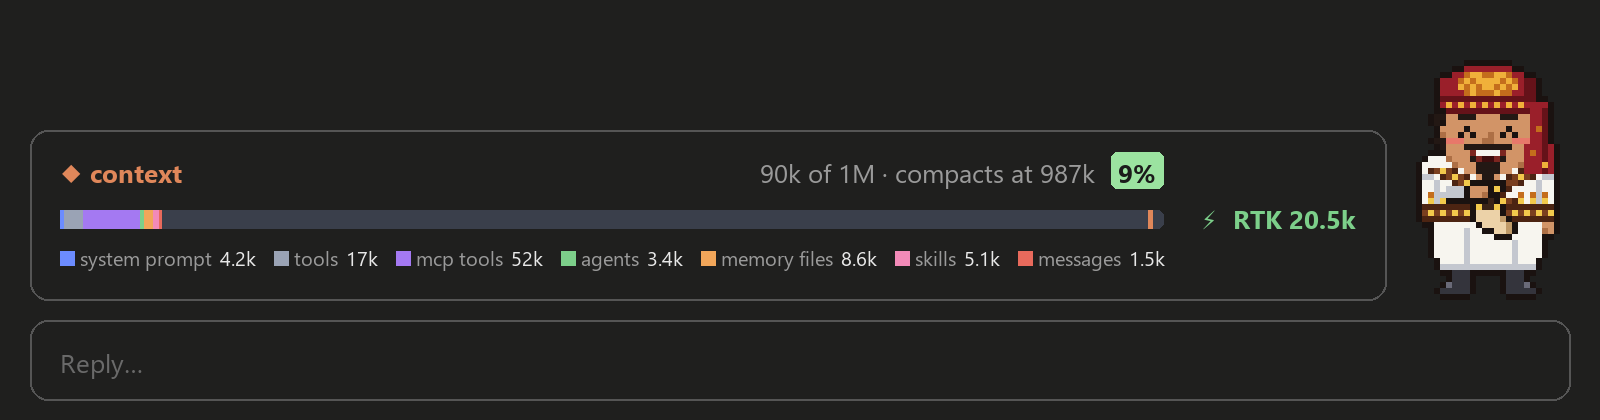
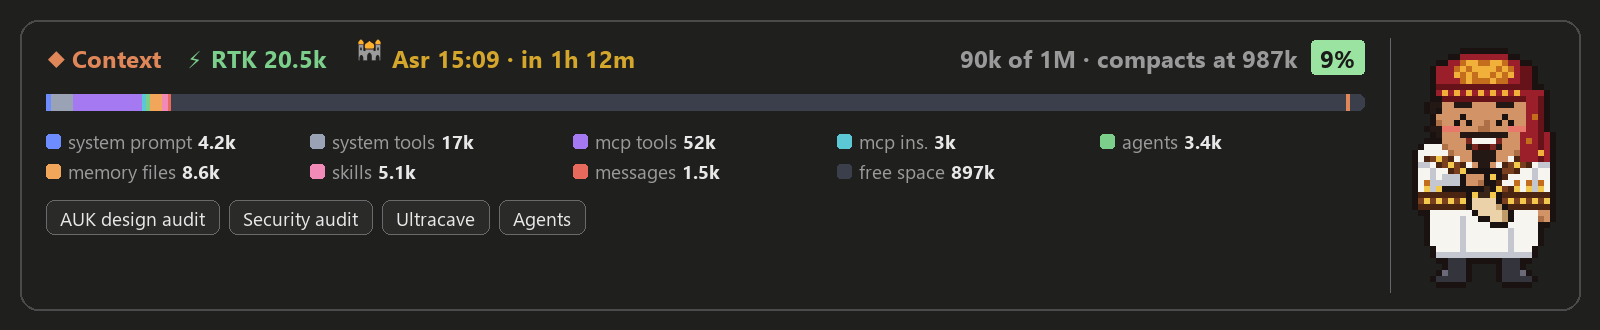
v0.5.0: README and previews for the new band
README covers the one-card layout, the four buttons, prayer times and the
Salah reminder (with where the times come from and the TZ override), and
the terminal fallbacks. New band.png and salah-reminder.png previews.

diff --git a/README.md b/README.md
@@ -1,8 +1,8 @@
 # Context Mod Companion
 
-A Claude Code mod that puts a context-window band above the prompt box. It shows your [RTK](https://github.com/rtk-ai/rtk) token savings, and a pixel Yemeni companion stands beside it. His mood follows how much context you have left. Its one-click setup also installs RTK and [Matt Pocock's skills](https://github.com/mattpocock/skills).
+A Claude Code mod that puts one card above the prompt box: your context window by category, your [RTK](https://github.com/rtk-ai/rtk) token savings, the next Islamic prayer time, and four one-click actions. A pixel Yemeni companion stands in the card. His mood follows how much context you have left, and he calls "Salah" when a prayer is due. Its one-click setup also installs RTK and [Matt Pocock's skills](https://github.com/mattpocock/skills).
 
-![The band above the prompt, with the companion standing to its right](assets/band.png)
+![The band: Context, RTK and the next prayer in the header, the usage bar, a five-column legend, four buttons, and the companion behind a divider](assets/band.png)
 
 ## Install
 
@@ -59,13 +59,33 @@ After setup, run `/mattpocock-skills:setup-matt-pocock-skills` in a project to s
 
 ## What you get
 
+The band pops up after the first prompt you send in a session.
+
 | Part | What it shows |
 | --- | --- |
-| Context | Tokens used out of your window, the auto-compact point, a % used badge, a bar split by category (system prompt, tools, MCP tools, agents, memory files, skills, messages) and a legend with token counts |
-| ⚡ RTK | Total tokens RTK has saved, from `rtk gain` |
-| Companion | A chibi Yemeni man in traditional dress (turban, khanjar, bandoliers) with no background. Click him and he raises his hand and says "Salam" |
+| Header | ◆ Context · ⚡ RTK tokens saved (from `rtk gain`) · 🕌 the next prayer with a countdown. On the right: tokens used of your window, the auto-compact point and a % used badge |
+| Usage bar | Your context window split by category, with a marker where auto-compact kicks in |
+| Legend | Five to a row: system prompt, system tools, mcp tools, mcp ins. (MCP server instructions), agents, memory files, skills, messages, free space, each with its token count |
+| Buttons | See [Buttons](#buttons) |
+| Companion | A chibi Yemeni man in traditional dress (turban, khanjar, bandoliers), behind a thin divider on the right. Click him and he raises his hand and says "Salam" |
 
-The band pops up after the first prompt you send in a session.
+### Buttons
+
+| Button | What it does | Shown when |
+| --- | --- | --- |
+| AUK design audit | Asks Claude to run the `auk-design-auditor` subagent on a document; Claude asks you which file | Always (the subagent lives in the AUK Design System folder, so start the session there) |
+| Security audit | Asks Claude to run the `security-audit` skill ([cloudflare/security-audit-skill](https://github.com/cloudflare/security-audit-skill)) on the project. Claude recommends a targeted or full audit with its rough cost and waits for your yes | Always |
+| Ultracave | Runs the caveman plugin's `/ultracave` | caveman is installed |
+| Agents | Runs `/agents-info`, which opens savvy-flow's live agents panel or closes it if it's open | savvy-flow is installed |
+
+### Prayer time and the Salah reminder
+
+![The Salah reminder: a gold chip in the header and the companion raising both hands under a Salah bubble with a gold glow](assets/salah-reminder.png)
+
+- **Next prayer:** the header shows the next of Fajr, Dhuhr, Asr, Maghrib and Isha in gold, with a countdown that updates every minute.
+- **Reminder:** from 2 minutes before a prayer until 15 minutes after it, the companion raises both hands with a calm face under a bouncing, gold-flashing "Salah" bubble, with a gold glow pulsing behind him. The prayer time turns into a gold chip that counts down ("Asr 15:09 · in 2m"), then up ("Asr now · 6m ago").
+- **Where the times come from:** the [Aladhan API](https://aladhan.com/prayer-times-api) with the Umm al-Qura (Makkah) method, for the city in your timezone: Asia/Dubai gives Dubai. The city name is sent to api.aladhan.com once a day; nothing else is.
+- **Change the city:** set the `TZ` environment variable to another IANA timezone, such as `Asia/Aden`. Where one timezone covers a whole country, times can be a few minutes off away from the named city.
 
 ![All four moods, at rest and waving](assets/moods-and-wave.png)
 
@@ -76,7 +96,9 @@ The band pops up after the first prompt you send in a session.
 | 40–60% | Worried: raised brows, wavy mouth, sweat drop |
 | 40% or less | Devastated: tears, wailing, slumped |
 
-The full drawing (bar chart, animated companion, click to wave) is for the Claude Code desktop app. In a terminal the band falls back to text blocks and a half-block pixel companion, and clicking him does nothing.
+During the Salah reminder he always shows the calm face.
+
+The full drawing (bar chart, rounded swatches and badge, animated companion, click to wave, the Salah glow) is for the Claude Code desktop app. In a terminal the band falls back to text blocks, ■ swatches, a │ divider and a half-block pixel companion; the buttons work, clicking him does nothing, and the reminder shows the raised hands and a gold chip without animation.
 
 ## Turn it off or on
 
@@ -88,8 +110,9 @@ claude plugin enable yemeni-context-band@context-mod-companion
 ## Develop
 
 ```
-hooks/register.tsx   the band, the companion's drawing and click, first-run setup
-hooks/character.ts   the pixel companion: palette, 24x40 grid per mood and pose
+hooks/register.tsx   the band, the companion's drawing and click, buttons, first-run setup
+hooks/character.ts   the pixel companion: palette, 24x40 grid per mood and pose (rest, wave, pray)
+hooks/prayer.ts      prayer times: city from timezone, Aladhan URL, next prayer, reminder window
 hooks/setup.ts       setup steps, texts and plain helpers
 types/index.d.ts     state contract
 tests/               claude plugin test suites
